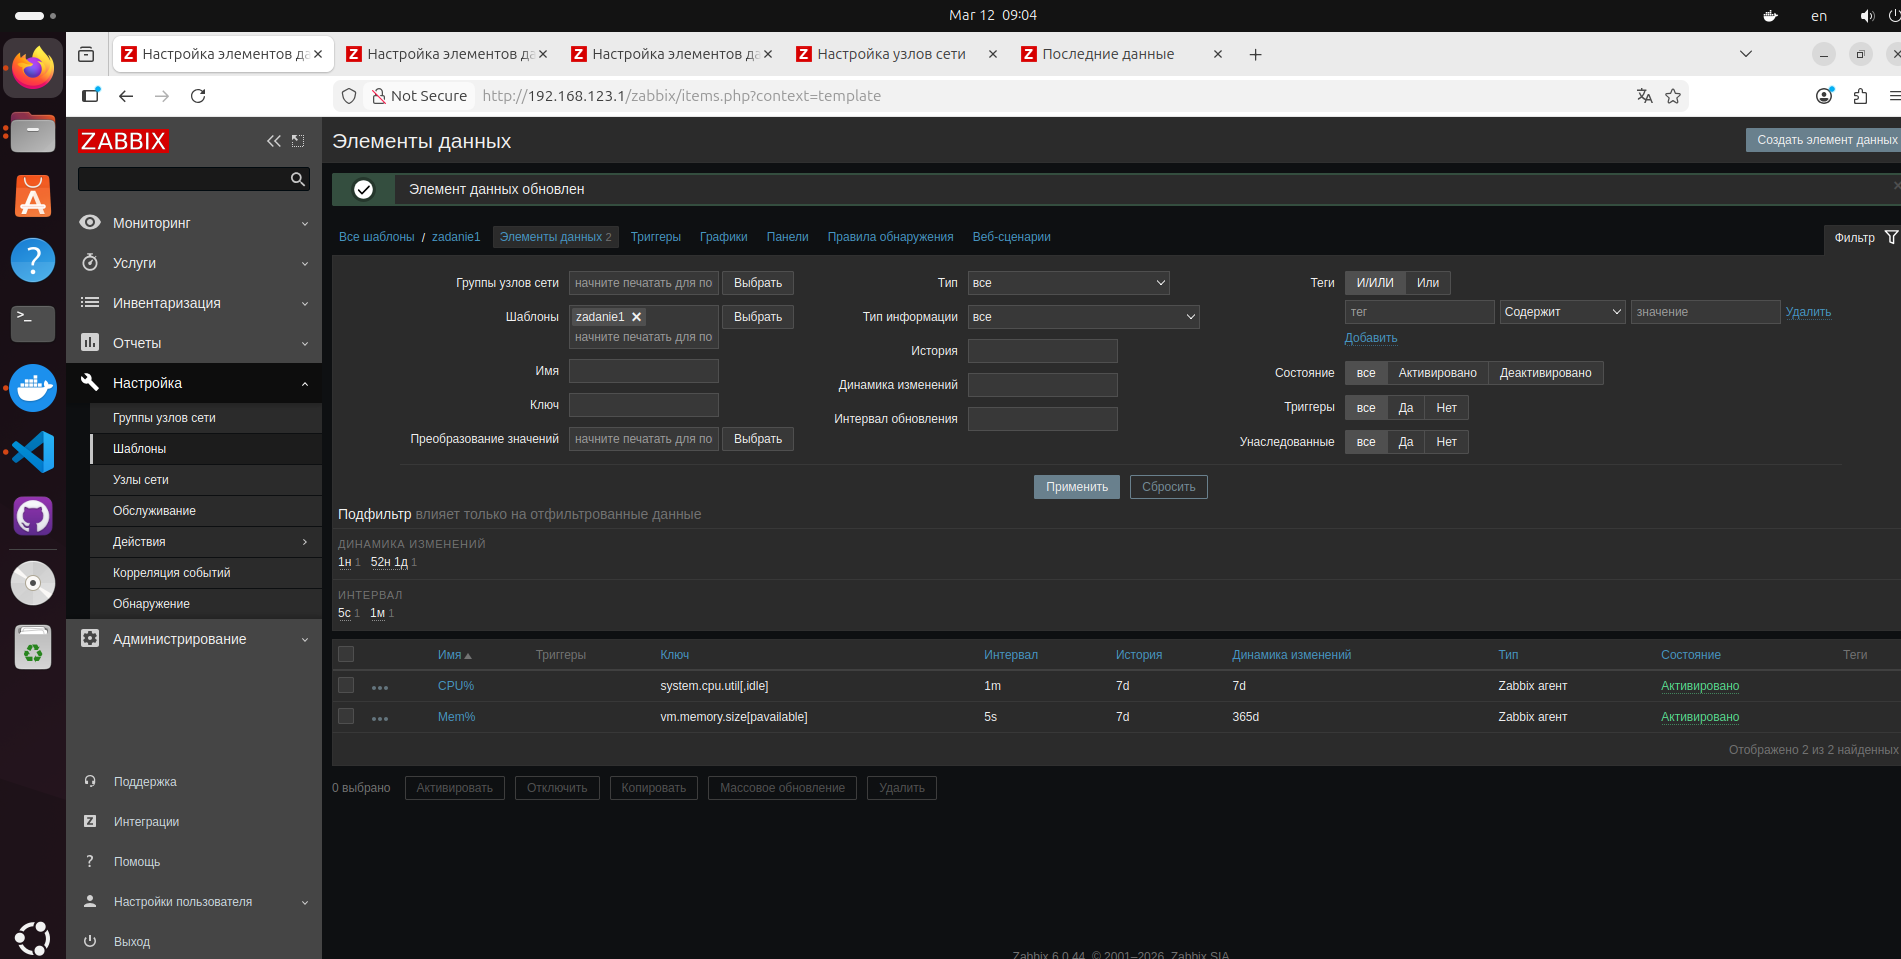
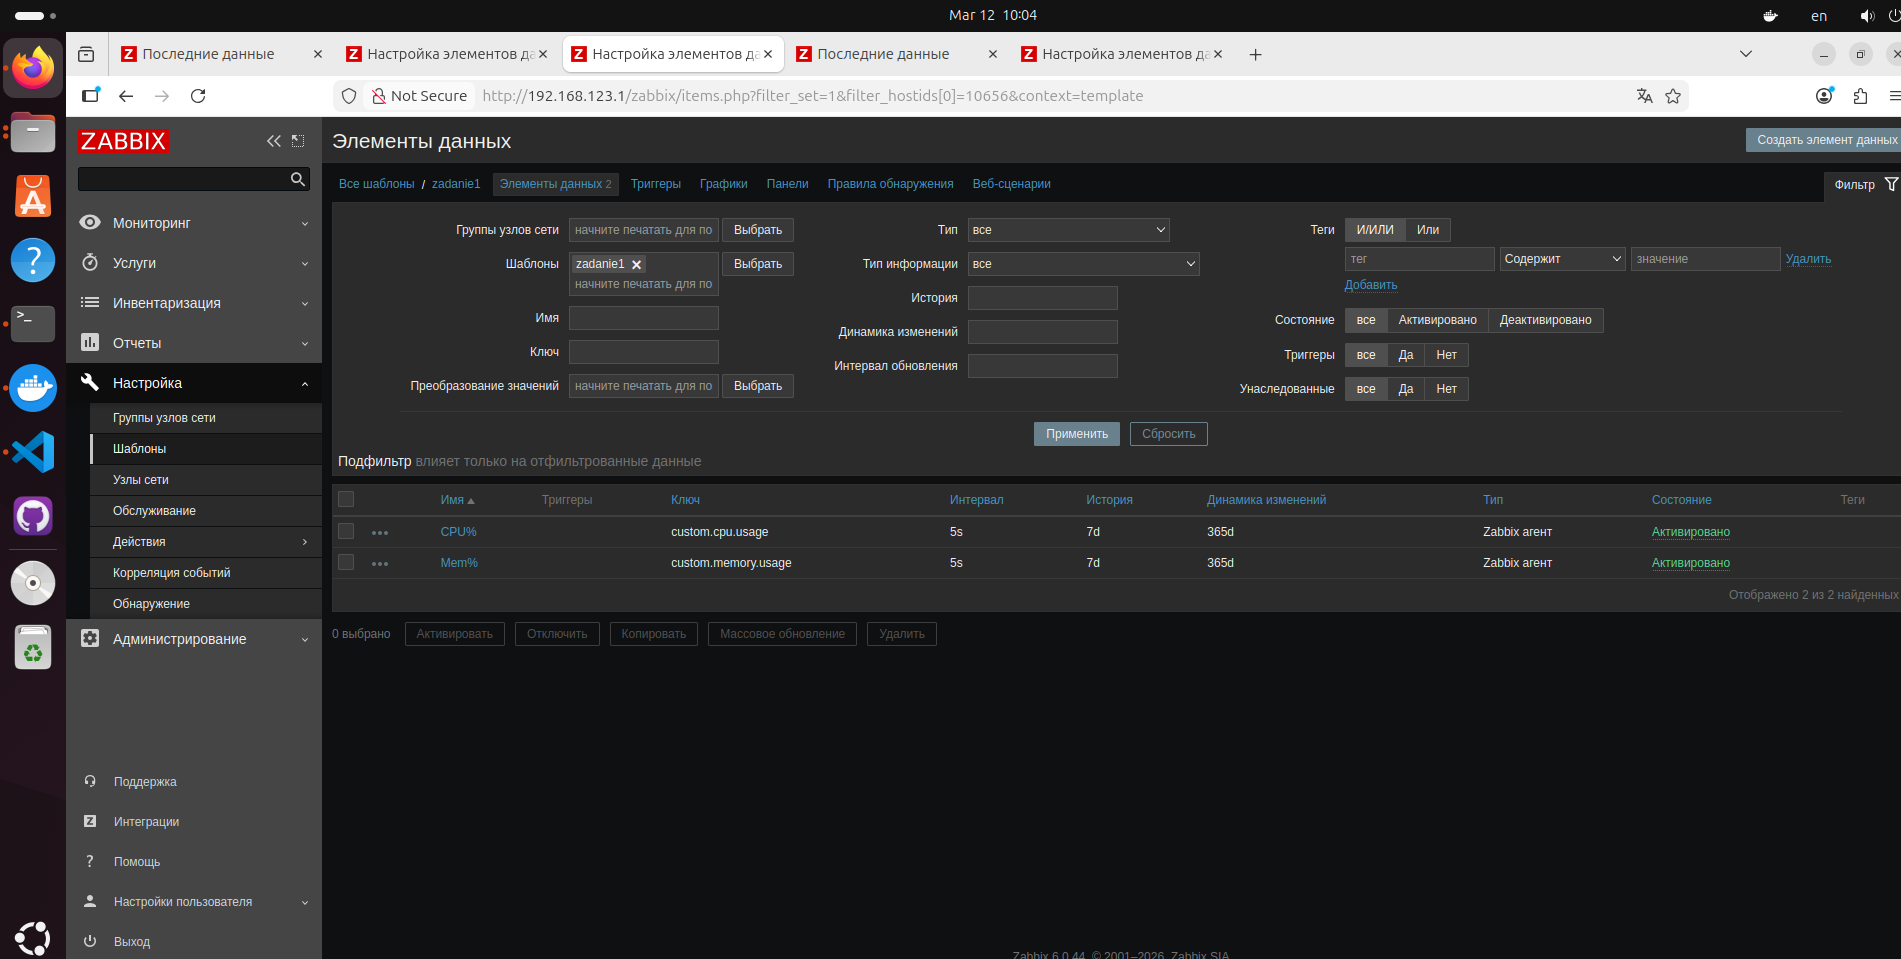
2-3

diff --git a/README.md b/README.md
@@ -41,12 +41,11 @@
 Скриншот-1 к заданию 1:
 ![Скриншот-1](https://github.com/MindMaze74/zabbix_dz2/blob/main/img/1.png)
 
-Скриншот-2 к заданию 1:
-![Скриншот-2](https://github.com/MindMaze74/zabbix_dz2/blob/main/img/2.png)
-
-Скриншот-3 к заданию 1:
-![Скриншот-3](https://github.com/MindMaze74/zabbix_dz2/blob/main/img/3.png)
-
+в конфиге (/etc/zabbix/zabbix_agentd.conf) агента на VM были изменены и добавлены UserParameter 
+```
+UserParameter=custom.cpu.usage, top -bn1 | grep "Cpu(s)" | awk '{print 100 - $8}' 
+UserParameter=custom.memory.usage, free | grep Mem | awk '{print ($3/$2)*100}'
+```
 #### Требования к результату
 - [ ] Прикрепите в файл README.md скриншот страницы шаблона с названием «Задание 1»
 
@@ -77,7 +76,12 @@
 3. Так же к каждому хосту привяжите шаблон Linux by Zabbix Agent
 4. Проверьте что в раздел Latest Data начали поступать необходимые данные из вашего шаблона
 
-
+Скриншот-2 к заданию 2-3:
+![Скриншот-2](https://github.com/MindMaze74/zabbix_dz2/blob/main/img/2.png)
+Скриншот-2 к заданию 2-3:
+![Скриншот-3](https://github.com/MindMaze74/zabbix_dz2/blob/main/img/3.png)
+Скриншот-2 к заданию 2-3:
+![Скриншот-4](https://github.com/MindMaze74/zabbix_dz2/blob/main/img/4.png)
 
 #### Требования к результату
 - [ ] Прикрепите в файл README.md скриншот страницы хостов, где будут видны привязки шаблонов с названиями «Задание 2-3». Хосты должны иметь зелёный статус подключения
